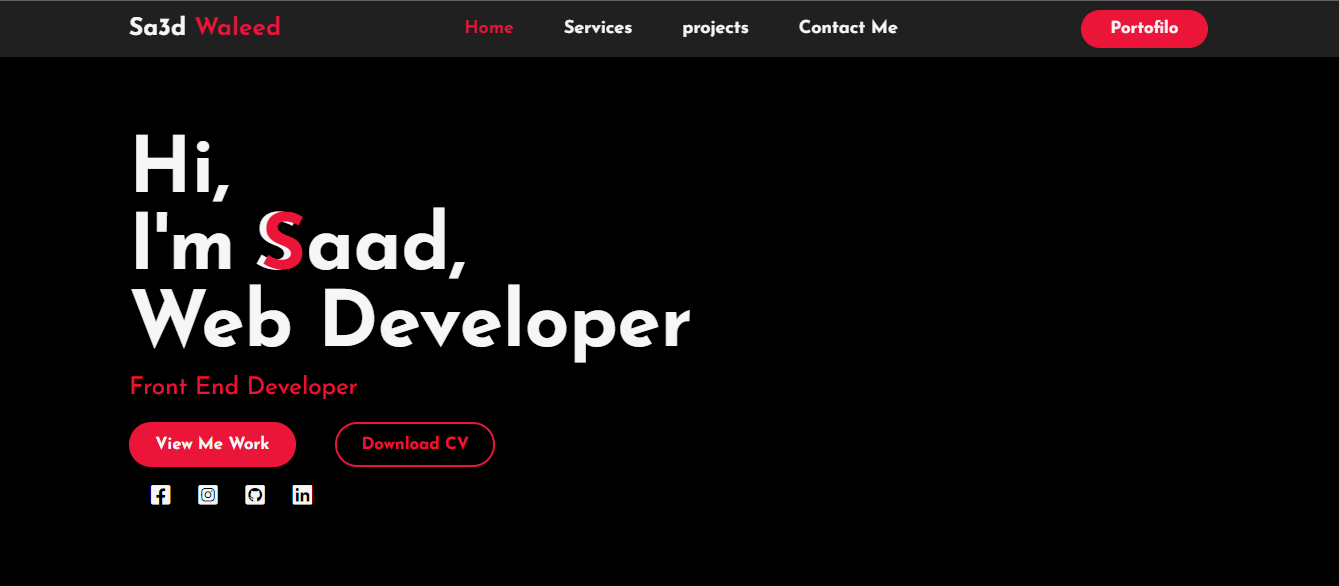
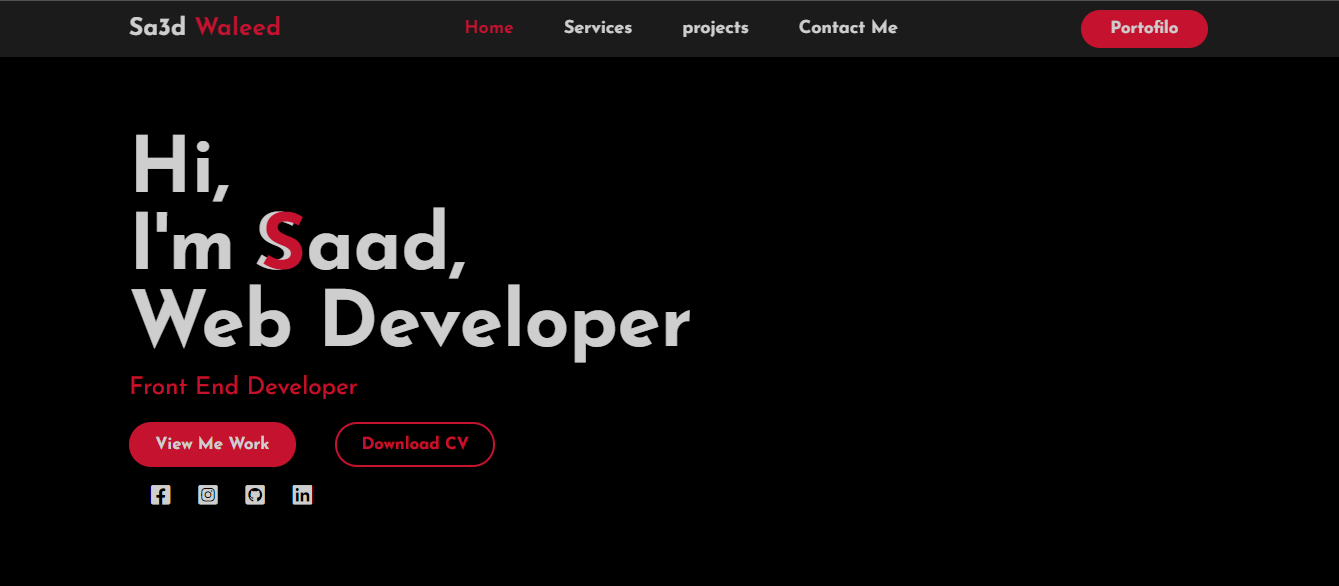
Ading Contact me section

diff --git a/index.html b/index.html
@@ -36,23 +36,25 @@
     <!-- End Header Section -->
     <!-- Start Main Section -->
     <section class="main" id="home">
-        <div class="main-content">
-            <h1 class="main-text">
-                Hi,<br />I'm <span>S</span>aad,<br />Web Developer
-            </h1>
-            <p class="sec-text">Front End Developer</p>
-            <div class="btns-div">
-                <a class="view-work-btn" href="#projects">View Me Work</a>
-                <a class="cv-btn" href="#projects">Download CV</a>
+        <div class="contain">
+            <div class="main-content">
+                <h1 class="main-text">
+                    Hi,<br />I'm <span>S</span>aad,<br />Web Developer
+                </h1>
+                <p class="sec-text">Front End Developer</p>
+                <div class="btns-div">
+                    <a class="view-work-btn" href="#projects">View Me Work</a>
+                    <a class="cv-btn" href="#projects">Download CV</a>
+                </div>
             </div>
-        </div>
-        <div class="social-icons">
-            <a href="https://www.facebook.com/profile.php?id=100008403336449&mibextid=b06tZ0"><i
-                    class="fa-brands fa-square-facebook"></i></a>
-            <a href="https://instagram.com/sa3d_waleed?utm_source=qr&igshid=MzNlNGNkZWQ4Mg=="><i
-                    class="fa-brands fa-square-instagram"></i></a>
-            <a href="https://github.com/saadwaleed7"><i class="fa-brands fa-square-github"></i></a>
-            <a href="#"><i class="fa-brands fa-linkedin"></i></a>
+            <div class="social-icons">
+                <a href="https://www.facebook.com/profile.php?id=100008403336449&mibextid=b06tZ0"><i
+                        class="fa-brands fa-square-facebook"></i></a>
+                <a href="https://instagram.com/sa3d_waleed?utm_source=qr&igshid=MzNlNGNkZWQ4Mg=="><i
+                        class="fa-brands fa-square-instagram"></i></a>
+                <a href="https://github.com/saadwaleed7"><i class="fa-brands fa-square-github"></i></a>
+                <a href="#"><i class="fa-brands fa-linkedin"></i></a>
+            </div>
         </div>
     </section>
     <!-- End Main Section -->
@@ -106,8 +108,9 @@
                     <h3>Todo List webSite</h3>
                     <p>Make your life easier and organized</p>
                     <div class="link">
-                        <a href="https://github.com/saadwaleed7/My_Projects/tree/main/Todo-List-WebSite"><i class="fa-solid fa-arrow-up-right-from-square"></i></a> 
-                     </div>
+                        <a href="https://github.com/saadwaleed7/My_Projects/tree/main/Todo-List-WebSite"><i
+                                class="fa-solid fa-arrow-up-right-from-square"></i></a>
+                    </div>
                 </div>
             </div>
             <div class="card">
@@ -116,8 +119,20 @@
                     <h3>My Portofolio</h3>
                     <p>A responsive website to introduce myself</p>
                     <div class="link">
-                        <a href="https://github.com/saadwaleed7/My_Projects/tree/main/Todo-List-WebSite"><i class="fa-solid fa-arrow-up-right-from-square"></i></a> 
-                     </div>
+                        <a href="https://github.com/saadwaleed7/My-Portfolio"><i
+                                class="fa-solid fa-arrow-up-right-from-square"></i></a>
+                    </div>
+                </div>
+            </div>
+            <div class="card">
+                <img src="images/project3.jpg" alt="">
+                <div class="info">
+                    <h3>Intelligent Scissors</h3>
+                    <p>A tool that enables you to select an object from a picture</p>
+                    <div class="link">
+                        <a href="https://github.com/saadwaleed7/Intelligent-Scissors"><i
+                                class="fa-solid fa-arrow-up-right-from-square"></i></a>
+                    </div>
                 </div>
             </div>
             <div class="card">
@@ -126,8 +141,9 @@
                     <h3>Todo List webSite</h3>
                     <p>Make your life easier and organized</p>
                     <div class="link">
-                        <a href="https://github.com/saadwaleed7/My_Projects/tree/main/Todo-List-WebSite"><i class="fa-solid fa-arrow-up-right-from-square"></i></a> 
-                     </div>
+                        <a href="https://github.com/saadwaleed7/My_Projects/tree/main/Todo-List-WebSite"><i
+                                class="fa-solid fa-arrow-up-right-from-square"></i></a>
+                    </div>
                 </div>
             </div>
             <div class="card">
@@ -136,8 +152,9 @@
                     <h3>Todo List webSite</h3>
                     <p>Make your life easier and organized</p>
                     <div class="link">
-                        <a href="https://github.com/saadwaleed7/My_Projects/tree/main/Todo-List-WebSite"><i class="fa-solid fa-arrow-up-right-from-square"></i></a> 
-                     </div>
+                        <a href="https://github.com/saadwaleed7/My_Projects/tree/main/Todo-List-WebSite"><i
+                                class="fa-solid fa-arrow-up-right-from-square"></i></a>
+                    </div>
                 </div>
             </div>
             <div class="card">
@@ -146,24 +163,37 @@
                     <h3>Todo List webSite</h3>
                     <p>Make your life easier and organized</p>
                     <div class="link">
-                        <a href="https://github.com/saadwaleed7/My_Projects/tree/main/Todo-List-WebSite"><i class="fa-solid fa-arrow-up-right-from-square"></i></a> 
-                     </div>
-                </div>
-            </div>
-            <div class="card">
-                <img src="images/project1.png" alt="">
-                <div class="info">
-                    <h3>Todo List webSite</h3>
-                    <p>Make your life easier and organized</p>
-                    <div class="link">
-                        <a href="https://github.com/saadwaleed7/My_Projects/tree/main/Todo-List-WebSite"><i class="fa-solid fa-arrow-up-right-from-square"></i></a> 
-                     </div>
+                        <a href="https://github.com/saadwaleed7/My_Projects/tree/main/Todo-List-WebSite"><i
+                                class="fa-solid fa-arrow-up-right-from-square"></i></a>
+                    </div>
                 </div>
             </div>
         </div>
     </section>
-
     <!-- End Projects Section  -->
+    <!-- Start Contact Me Section -->
+    <section class="contact-me" id="contact-me">
+        <div class="title"><span>C</span>ontact&nbsp; <span>M</span>e!</div>
+        <div class="container">
+            <form action="#" class="form">
+                <h3>Let's work together</h3>
+                <div class="input-box">
+                    <input type="text" placeholder="Full Name">
+                    <input type="email" placeholder="email Adress">
+                </div>
+                <div class="input-box">
+                    <input type="number" placeholder="Mobil Number">
+                    <input type="text" placeholder="email Subject">
+                </div>
+                <textarea name="" id="" cols="30" rows="10" placeholder="Your Massage"></textarea>
+                <input type="submit" value="Send Massage" class="btn">
+            </form>
+        </div>
+
+    </section>
+    <!-- End Contact Me Section -->
+
 
 </body>
+
 </html>

diff --git a/CSS/my.css b/CSS/my.css
@@ -15,12 +15,7 @@
   color: var(--text-color);
 }
 body {
-  /* background-color: var(--background-color); */
-  background-image: url(../images/bg1_home.png);
-  background-repeat: no-repeat;
-  background-position: center;
-  background-size: cover;
-  transition: all var(--main-duration) ease;
+  background-color: var(--background-color);
 }
 
 .header {
@@ -95,11 +90,17 @@ body {
 .header .navbar .portofilo-btn:hover {
   transform: scale(1.1);
   cursor: pointer;
-  text-shadow: 0 0 15px var(--text-color);
+  box-shadow: 0 0 10px 5px var(--secondary-color);
 }
 
 /* Start Home Section */
 .main {
+  background-image: url(../images/bg1_home.png);
+  background-repeat: no-repeat;
+  background-position: center;
+  background-size: cover;
+}
+.main .contain {
   width: 80%;
   min-height: 100vh;
   margin-left: 10%;
@@ -107,7 +108,6 @@ body {
   z-index: 998;
   padding-top: 120px;
 }
-
 .main .main-content .main-text {
   font-size: 70px;
   font-weight: bold;
@@ -192,7 +192,7 @@ body {
   justify-content: center;
   padding-top: 10px;
   padding-bottom: 30px;
-  font-size: 60px;
+  font-size: 50px;
   font-weight: bold;
   color: var(--text-color);
 }
@@ -207,6 +207,7 @@ body {
   justify-content: center;
   flex-direction: row;
   flex-wrap: wrap;
+  margin-bottom: 80px;
 }
 .card {
   background-color: var(--section-color);
@@ -277,13 +278,10 @@ body {
   border-radius: 15px;
   transform: translateY(100%);
   transition: var(--main-duration);
-  
-
-
 }
-.projects .card:hover .info{
+.projects .card:hover .info {
   transform: translateY(0);
-} 
+}
 .projects .card .info h3 {
   font-size: 20px;
 }
@@ -320,3 +318,60 @@ body {
   margin: 10px;
 }
 /* End  Projects Section */
+
+/* Start Contact Me Section  */
+.contact-me {
+  width: 80%;
+  min-height: 100vh;
+  margin-left: 10%;
+  margin-right: 10%;
+  padding-top: 80px;
+}
+.contact-me .container h3 {
+  color: var(--main-color);
+  font-size: 30px;
+  margin-bottom: 15px;
+}
+.form {
+  position: relative;
+  display: flex;
+  justify-content: center;
+  align-items: center;
+  flex-direction: column;
+}
+.form .input-box {
+  margin-bottom: 15px;
+}
+.form .input-box input {
+  background-color: var(--section-color);
+  color: var(--text-color);
+  border-radius: 3px;
+  width: 300px;
+  height: 25px;
+}
+.form textarea {
+  background-color: var(--section-color);
+  color: var(--text-color);
+  border-radius: 3px;
+  width: 600px;
+  resize: none;
+  line-height: 1.2;
+}
+.form .btn {
+  margin: 20px;
+  border: var(--main-color) solid 2px;
+  background: var(--main-color);
+  padding: 8px 25px;
+  border-radius: 20px;
+  font-weight: bold;
+  color: var(--text-color);
+  font-size: 15px;
+  transition: var(--main-duration);
+}
+.form .btn:hover {
+  transform: scale(1.1);
+  cursor: pointer;
+  box-shadow: 0 0 10px 5px var(--secondary-color);
+}
+
+/* End Contact Me Section  */

diff --git a/README.md b/README.md
@@ -1,7 +1,7 @@
-# My-Portofilo
+# My Portofolio
 ~~-Header Section -> (Navigation bar)~~
 ~~-Main section~~
 ~~-Services section~~
--Projects section
--Contact Me Section
+~~-Projects section~~
+~~-Contact Me Section~~
 -Footer Section
